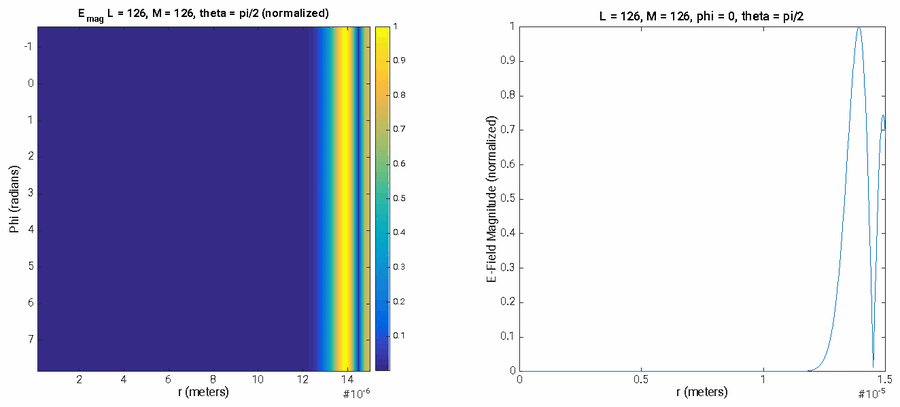
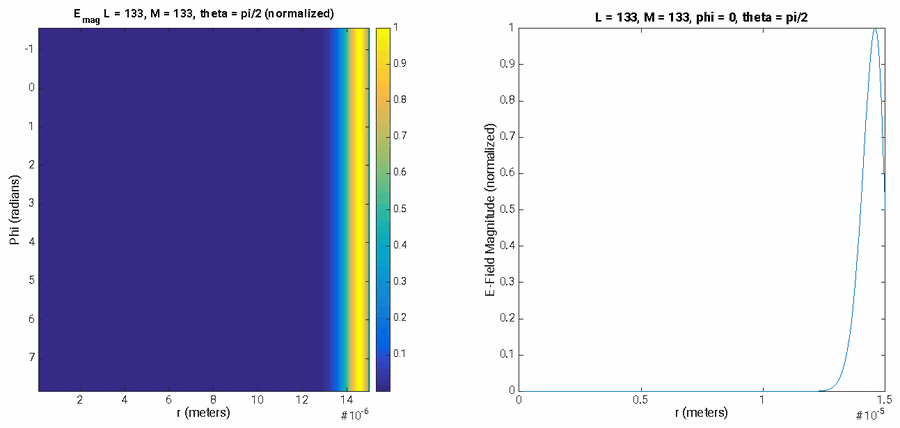
Correct README claims flagged in code review
- fdtd-waveguide: describe the 2-D script as committed (one TE10 case
  at beta = 0); attribute the dispersion sweep and parameter studies to
  the report; note the commented-out 1-D options; warn about the 2-D
  script's ~1.25 GB memory use and 10,000-frame animation.
- whispering-gallery-modes: use the report's final L = 133 figure (the
  L = 126 one was a rejected trial); give the refined result
  (omega ~ 2.0195e15 rad/s); mark the Part B energy calculation as
  report-only.
- multipole-scattering: mark ECE_5106_HW5_P4a.m as an incomplete first
  attempt.
- Note the opposite argument orders of besselj_sph and
  function_spherical_bessel, and say "15 um-radius sphere".

Claude-Session: https://claude.ai/code/session_01BnuqRRTaYhEtKZK6Y8x6Bh

diff --git a/projects/whispering-gallery-modes/README.md b/projects/whispering-gallery-modes/README.md
@@ -6,14 +6,14 @@ Finds the resonant whispering gallery modes (WGMs) of a 15 µm-radius dielectric
 
 ![WGM field magnitude vs. radius](../../assets/wgm-field-profile.png)
 
-*Normalized |E| for an L = M = 126 mode at θ = π/2: the field is concentrated just inside the sphere's surface, which is the defining feature of a whispering gallery mode. Figure from the exam report.*
+*Normalized |E| for the L = M = 133 resonance at θ = π/2: the field is concentrated just inside the sphere's surface, which is the defining feature of a whispering gallery mode. Figure from the exam report.*
 
 ## What it does
 
 - **Geometry:** a sphere of radius a = 15 µm with core index n = 1.4 and cladding index n = 1.1. The search considers TE modes with L = M.
 - **Fields:** spherical Bessel functions j<sub>L</sub>(kr) inside the sphere, spherical Hankel functions h<sub>L</sub><sup>(1)</sup>(kr) outside, and vector spherical harmonics **X**<sub>LM</sub> for the angular dependence.
-- **Part A:** matching the tangential fields at r = a gives a characteristic equation. The scripts scan ω across the allowed band for each mode order L. The report finds a resonance near L = 133, ω ≈ 2.006 × 10<sup>15</sup> rad/s, and confirms it with a second method (the zero of a matrix determinant).
-- **Part B:** computes the time-averaged electric and magnetic energy stored in the resonant mode.
+- **Part A:** matching the tangential fields at r = a gives a characteristic equation. The scripts scan ω across the allowed band for each mode order L. A first scan finds a resonance near L = 133, ω ≈ 2.006 × 10<sup>15</sup> rad/s. The report then refines it by solving for the zero of a boundary-condition matrix determinant, giving the final answer: **L = 133, ω ≈ 2.0195 × 10<sup>15</sup> rad/s (λ ≈ 0.933 µm)**.
+- **Part B (report only):** the report computes the time-averaged electric and magnetic energy stored in the resonant mode. The code for that step isn't in this folder.
 
 ## Files
 
@@ -21,14 +21,14 @@ Finds the resonant whispering gallery modes (WGMs) of a 15 µm-radius dielectric
 |------|---------|
 | `ECE_5106_FDTD_Final_Exam_A_L_search.m` | Part A: scans ω for a given L and plots both sides of the characteristic equation |
 | `ECE_5106_FDTD_Final_Exam_Part_A_plot_fields.m` | Part A: plots the mode's field magnitude vs. r and φ |
-| `ECE_5106_FDTD_Final_Exam_B_omega_search.m` | Part B: finer frequency search around the resonance |
-| `ECE_5106_FDTD_Final_Exam_B.m` | Part B: evaluates the characteristic equation at the chosen resonant frequency |
+| `ECE_5106_FDTD_Final_Exam_B_omega_search.m` | Finer frequency scan of the characteristic equation |
+| `ECE_5106_FDTD_Final_Exam_B.m` | Evaluates the characteristic equation at a single chosen frequency |
 | `plot_YLM.m` | Plots the components of the vector spherical harmonic **X**<sub>LM</sub> |
 | `plot_sph_besselj.m` | Plots the spherical Bessel function j<sub>L</sub>(kr) inside the sphere |
 | `Y_lm_func.m`, `Y_lm_func2.m`, `func_calc_Y_LM.m` | Scalar spherical harmonics Y<sub>LM</sub> (different normalizations and angle units) |
 | `dY_lm_theta_func.m`, `func_calc_dY_LM_dtheta.m` | Numerical ∂Y<sub>LM</sub>/∂θ |
 | `function_XLM_theta.m`, `function_XLM_phi.m` (+ `_mod` variants) | θ and φ components of **X**<sub>LM</sub> |
-| `besselj_sph.m`, `function_spherical_bessel.m` | Spherical Bessel function j<sub>L</sub> |
+| `besselj_sph.m`, `function_spherical_bessel.m` | Spherical Bessel function j<sub>L</sub>; note the argument orders differ: `besselj_sph(L, x)` vs. `function_spherical_bessel(x, L)` |
 | `ece_5106_final_exam_plot_trial_B.jpg` | Example output plot |
 
 Despite "FDTD" in their names, these scripts solve the problem analytically; they are not FDTD simulations.

diff --git a/README.md b/README.md
@@ -9,8 +9,8 @@ Work samples in electromagnetics, RF/antenna engineering and radar systems: grad
 | | |
 |:---:|---|
 | <img src="assets/ris-beam-steering.png" width="320" alt="Simulated directivity patterns of a reconfigurable metasurface steering its beam across azimuth"> | **PhD dissertation: Reconfigurable Intelligent Metasurfaces for Wireless Communication and Sensing** (2021)<br>A programmable 2-bit metasurface aperture for beam steering, spatial modulation and index modulation in next-generation wireless systems, from design and simulation through fabrication and measurement.<br>[Dissertation](https://vtechworks.lib.vt.edu/items/9011f677-0fcd-4f1a-9249-f5abe05bb806) · [Defense slides](Hodge-John-PhD-Dissertation-Defense-Nov2021-Final-2.pdf) |
-| <img src="assets/fdtd-2d-waveguide.png" width="320" alt="2-D FDTD Hy field snapshot in a rectangular waveguide"> | **FDTD simulation of a cavity and a rectangular waveguide** (2016)<br>A from-scratch 1-D and 2-D Yee-scheme solver. It finds resonant modes by FFT and matches the waveguide's analytical dispersion relation.<br>[Code + overview](projects/fdtd-waveguide/) · [Report](Hodge_John_ECE_5106_FDTD_Project_Doc_Draft_C.pdf) |
-| <img src="assets/wgm-field-profile.png" width="320" alt="Whispering gallery mode field concentrated near the sphere surface"> | **Whispering gallery modes in a dielectric microsphere** (2016)<br>A spherical-harmonic field expansion and a characteristic-equation search for high-order (L ≈ 133) resonant modes of a 15 µm sphere.<br>[Code + overview](projects/whispering-gallery-modes/) · [Report](Whispering%20Gallery%20Mode%20-%20Hodge_John_ECE_5106_Final_Exam_Doc_Draft_E.pdf) |
+| <img src="assets/fdtd-2d-waveguide.png" width="320" alt="2-D FDTD Hy field snapshot in a rectangular waveguide"> | **FDTD simulation of a cavity and a rectangular waveguide** (2016)<br>A from-scratch 1-D and 2-D Yee-scheme solver. It finds resonant modes by FFT; the report compares the waveguide's numerical dispersion relation with the analytical one.<br>[Code + overview](projects/fdtd-waveguide/) · [Report](Hodge_John_ECE_5106_FDTD_Project_Doc_Draft_C.pdf) |
+| <img src="assets/wgm-field-profile.png" width="320" alt="Whispering gallery mode field concentrated near the sphere surface"> | **Whispering gallery modes in a dielectric microsphere** (2016)<br>A spherical-harmonic field expansion and a characteristic-equation search for a high-order (L = 133) resonant mode of a 15 µm-radius sphere.<br>[Code + overview](projects/whispering-gallery-modes/) · [Report](Whispering%20Gallery%20Mode%20-%20Hodge_John_ECE_5106_Final_Exam_Doc_Draft_E.pdf) |
 | <img src="projects/multipole-scattering/plots/ECE_5106_HW5_P5c_Take1_lookup_pi_by_pi_fig.jpg" width="320" alt="Total field magnitude around a conducting sphere"> | **Scattering from a sphere by multipole expansion** (2016)<br>A plane wave expanded in vector spherical harmonics, the multipole coefficients for a conducting sphere, its scattering cross-section, and a map of the total field.<br>[Code + overview](projects/multipole-scattering/) |
 | <img src="assets/dielectric-slab-reflection.png" width="320" alt="Reflected and transmitted power vs. layer thickness for two dielectric cases"> | **EM boundaries: multilayer reflection and a slab waveguide** (2015)<br>Transfer-matrix analysis of a three-layer dielectric stack, showing frustrated total internal reflection and thin-film resonances, plus the guided TM mode of a dielectric slab.<br>[Code + overview](projects/dielectric-slab-boundaries/) · [Report](EM%20Boundaries%20-%20Hodge_John_ECE_5105_Final_Exam_Draft_A%20%281%29.pdf) |
 

diff --git a/projects/fdtd-waveguide/README.md b/projects/fdtd-waveguide/README.md
@@ -2,7 +2,7 @@
 
 *Virginia Tech ECE 5106 (EM Fields II) course project, spring 2016. Written in MATLAB.*
 
-A from-scratch finite-difference time-domain (FDTD) solver using the Yee scheme. It finds the resonant modes of a 1-D cavity and the dispersion relation of a PEC rectangular waveguide, then checks both against the analytical solutions.
+A from-scratch finite-difference time-domain (FDTD) solver using the Yee scheme. It finds the resonant modes of a 1-D cavity and the modes of a PEC rectangular waveguide, and the report checks both against the analytical solutions.
 
 ![2-D FDTD Hy field snapshot](../../assets/fdtd-2d-waveguide.png)
 
@@ -13,13 +13,14 @@ A from-scratch finite-difference time-domain (FDTD) solver using the Yee scheme.
 **1-D cavity:** `FDTD_1D_Take2_C.m`
 - PEC-bounded cavity, L = 30, N = 31 nodes, normalized units (ε = μ = 1), Δt = 0.5 Δz, 10,000 time steps.
 - Takes the FFT of E<sub>x</sub> and H<sub>y</sub> to find the resonant frequencies, then compares them with the analytical modes f<sub>m</sub> = m / 2L.
-- Starts from single-mode, multi-mode and random initial fields, and uses a spatial FFT filter to isolate individual modes.
+- As committed, it starts from a single m = 5 mode. The report also uses multi-mode and random starting fields and a spatial FFT filter to isolate individual modes; those options are present but commented out in the script.
 
 **2-D waveguide cross-section:** `ECE_5106_FDTD_Project_2D_A6.m`
-- 0.1 m × 0.05 m PEC rectangular waveguide on a 51 × 51 grid, with Δt set to 0.4 × the Courant stability limit.
-- Gaussian-pulse excitation, with the propagation constant β included in the update equations.
-- Finds the TE/TM mode frequencies by FFT and compares the numerical β–f dispersion curve with the analytical one. The report shows close agreement.
-- Varies Δt, Δx and the number of time steps to show how each trades accuracy against run time.
+- 0.1 m × 0.05 m PEC rectangular waveguide on a 51 × 51 grid, with Δt set to 0.4 × the Courant stability limit and 10,000 time steps.
+- The update equations include the propagation constant β. As committed, the script runs one case: β = 0, starting from a TE<sub>10</sub> field distribution (H<sub>z</sub> ∝ cos(πx/a)).
+- Records the fields over time and takes FFTs to find the mode frequencies, then animates the H<sub>z</sub> field.
+
+**In the report only:** sweeping β to compare the numerical β–f dispersion curve with the analytical one (close agreement), and varying Δt, Δx and the number of time steps to show how each trades accuracy against run time. The committed 2-D script has these parameters fixed.
 
 ## Files
 
@@ -31,6 +32,8 @@ A from-scratch finite-difference time-domain (FDTD) solver using the Yee scheme.
 ## Running
 
 Both scripts are standalone. Open MATLAB in this folder and run either one by name, e.g. `FDTD_1D_Take2_C`. Each script starts with `clear all; close all`, so save your workspace first. Neither has been tested in GNU Octave.
+
+**The 2-D script is heavy.** It stores every time step of all six field components (about 1.25 GB), prints the step number on each of the 10,000 iterations, and ends by animating all 10,000 frames. To skip the animation, set `animate_fields = 0` at line 444 before running.
 
 ## Report
 

diff --git a/projects/multipole-scattering/README.md b/projects/multipole-scattering/README.md
@@ -21,14 +21,15 @@ Radial derivatives of the Bessel and Hankel functions, and angular derivatives o
 
 | File | Purpose |
 |------|---------|
-| `ECE_5106_HW5_P4a.m`, `ECE_5106_HW5_P4a_take2.m` | Problem 4a: plane-wave expansion at a point and on an x–z grid |
+| `ECE_5106_HW5_P4a.m` | Problem 4a, first attempt: computes Y<sub>LM</sub> and ∂Y<sub>LM</sub>/∂θ at one point, then stops (incomplete) |
+| `ECE_5106_HW5_P4a_take2.m` | Problem 4a: plane-wave expansion on an x–z grid |
 | `ECE_5106_HW5_P4a_take2b.m`, `ECE_5106_HW5_P4b.m` | Problem 4: Re[**e**<sub>x</sub> · **E**<sub>inc</sub>] maps on the x–z and x–y planes |
 | `ECE_5106_HW5_P5a.m`, `ECE_5106_HW5_P5a_Take2.m` | Problem 5a: α<sub>L</sub> and β<sub>L</sub> coefficients (two versions) |
 | `ECE_5106_HW5_P5b.m`, `ECE_5106_HW5_P5b_Take2.m` | Problem 5b: scattering cross-section (two versions; `_Take2` loads `L_alpha_beta_coeff_arr.mat`) |
 | `ECE_5106_HW5_P5c_Take1.m` | Problem 5c: total field map |
 | `L_alpha_beta_coeff_arr.mat` | Saved α<sub>L</sub>, β<sub>L</sub> table used by `ECE_5106_HW5_P5b_Take2.m` |
 | `ECE_5106_HW5_P4b.fig` | MATLAB figure file for Problem 4b |
-| `function_spherical_bessel.m`, `besselj_sph.m` | Spherical Bessel function j<sub>L</sub> |
+| `function_spherical_bessel.m`, `besselj_sph.m` | Spherical Bessel function j<sub>L</sub>; note the argument orders differ: `function_spherical_bessel(x, L)` vs. `besselj_sph(L, x)` |
 | `function_hankel_first.m` | Spherical Hankel function h<sub>L</sub><sup>(1)</sup>, called as `(x, L)` |
 | `function_calc_f_L_kr.m`, `function_calc_f_L_kr_B.m`, `function_calc_g_L_kr.m` | Radial functions f<sub>L</sub>(kr) and g<sub>L</sub>(kr) for the total field |
 | `func_calc_Y_LM.m`, `Y_lm_func2.m` | Scalar spherical harmonics Y<sub>LM</sub> |
